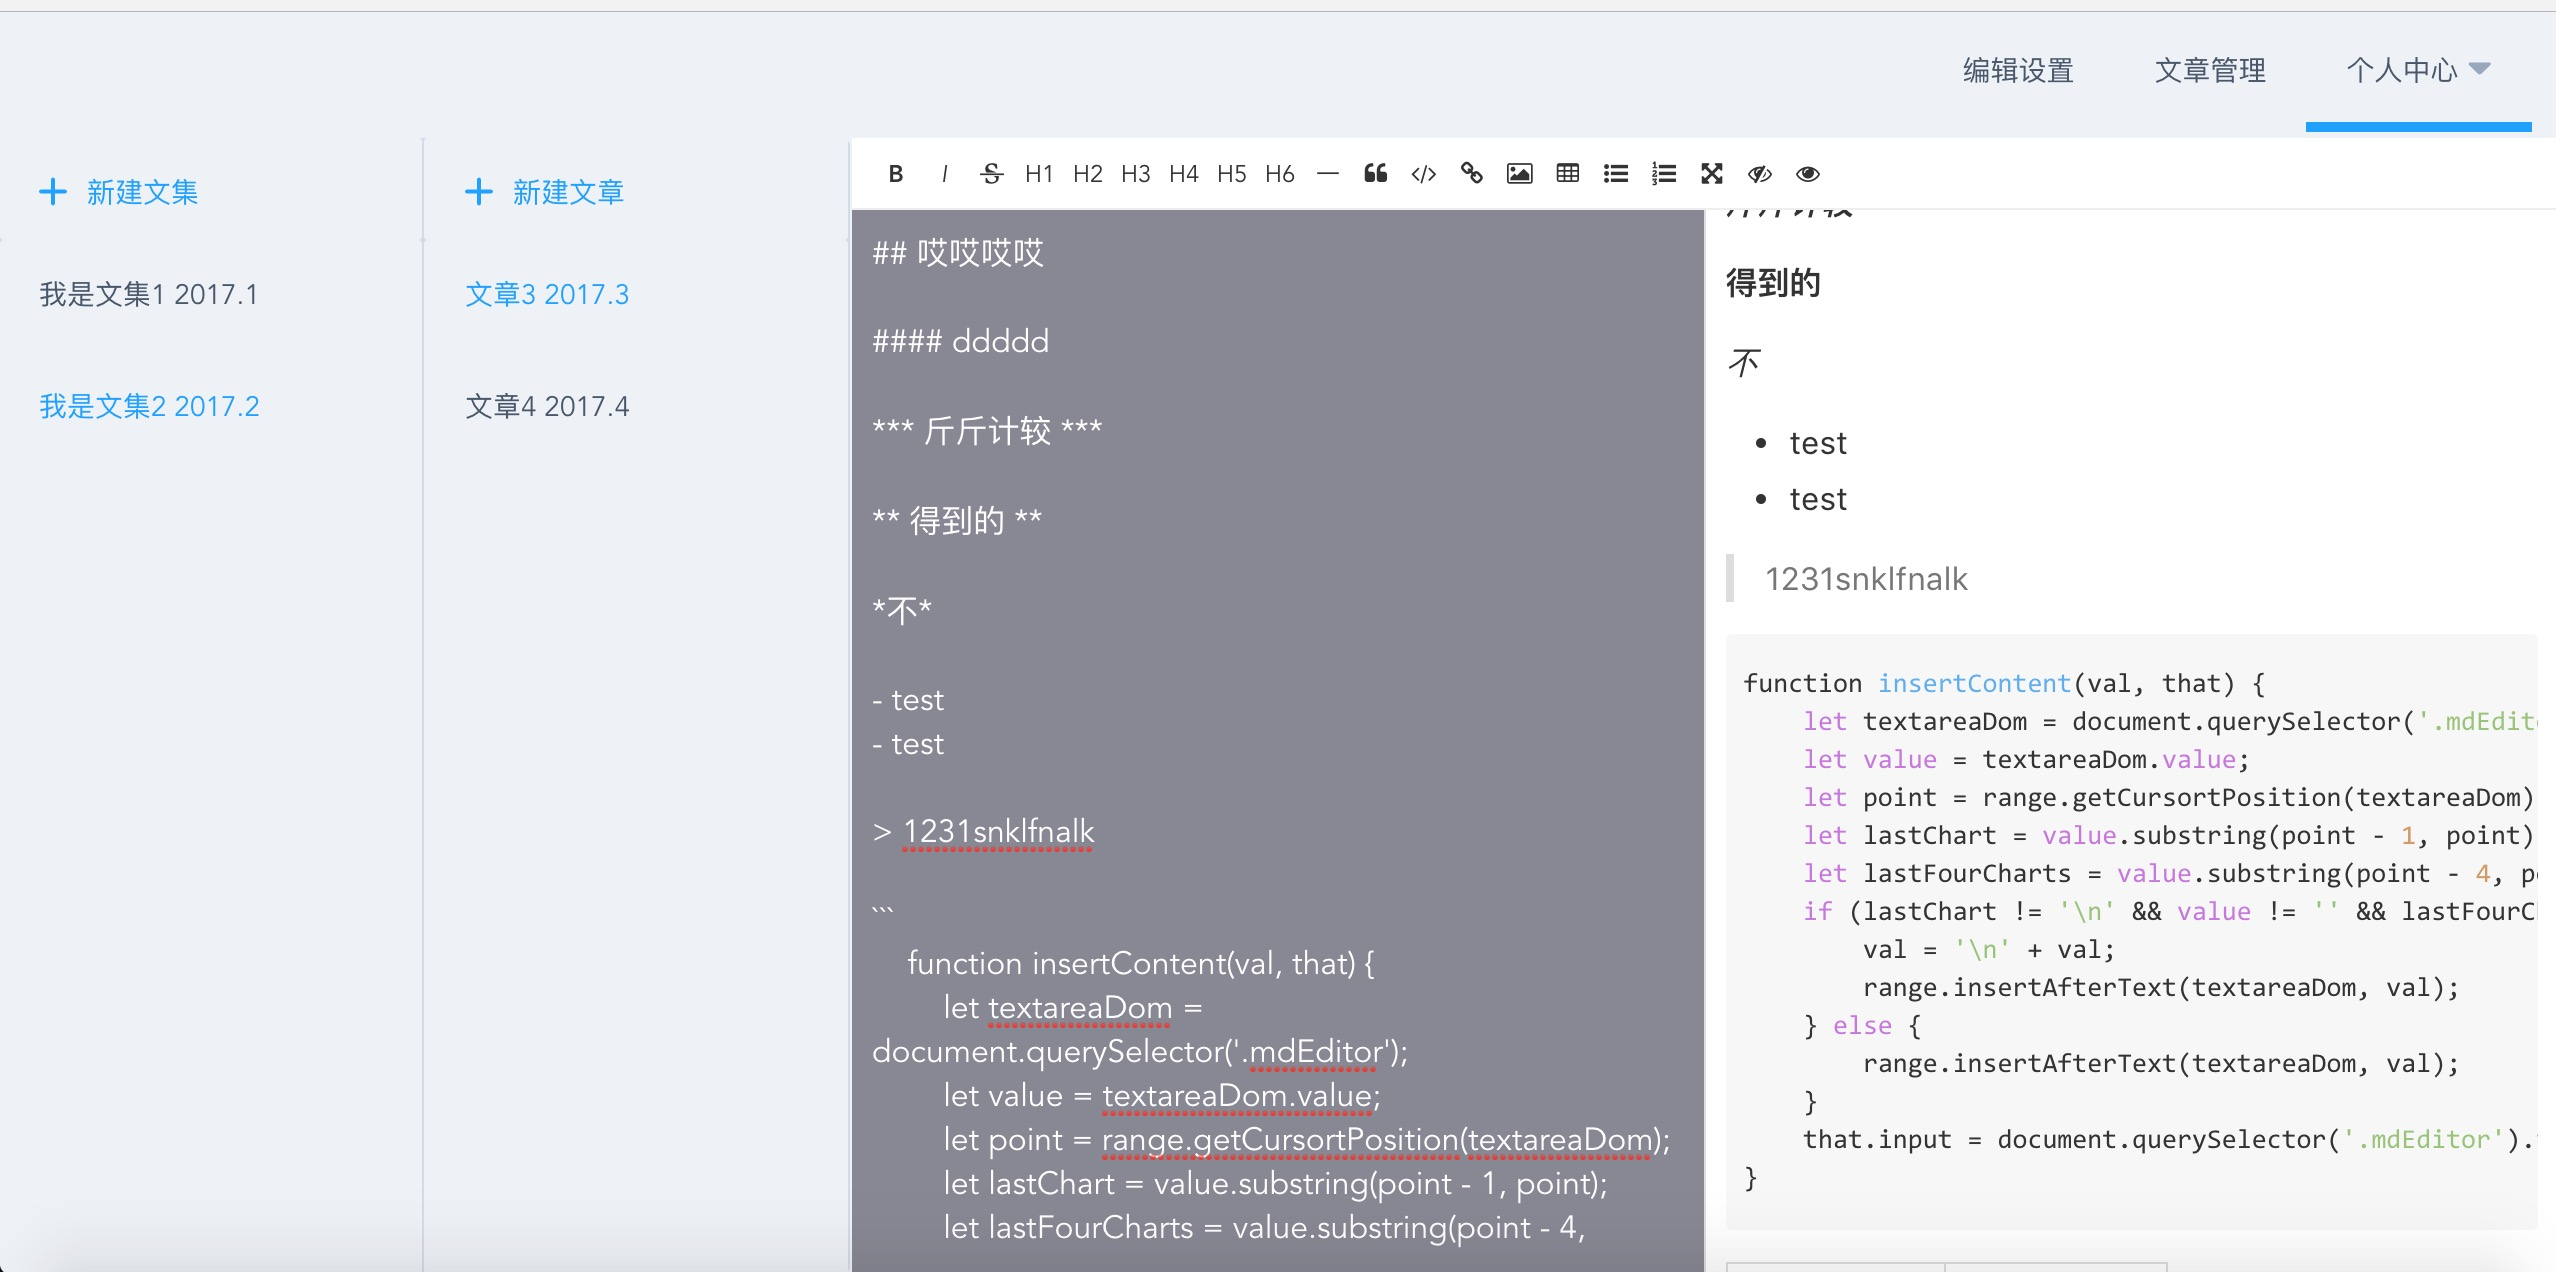
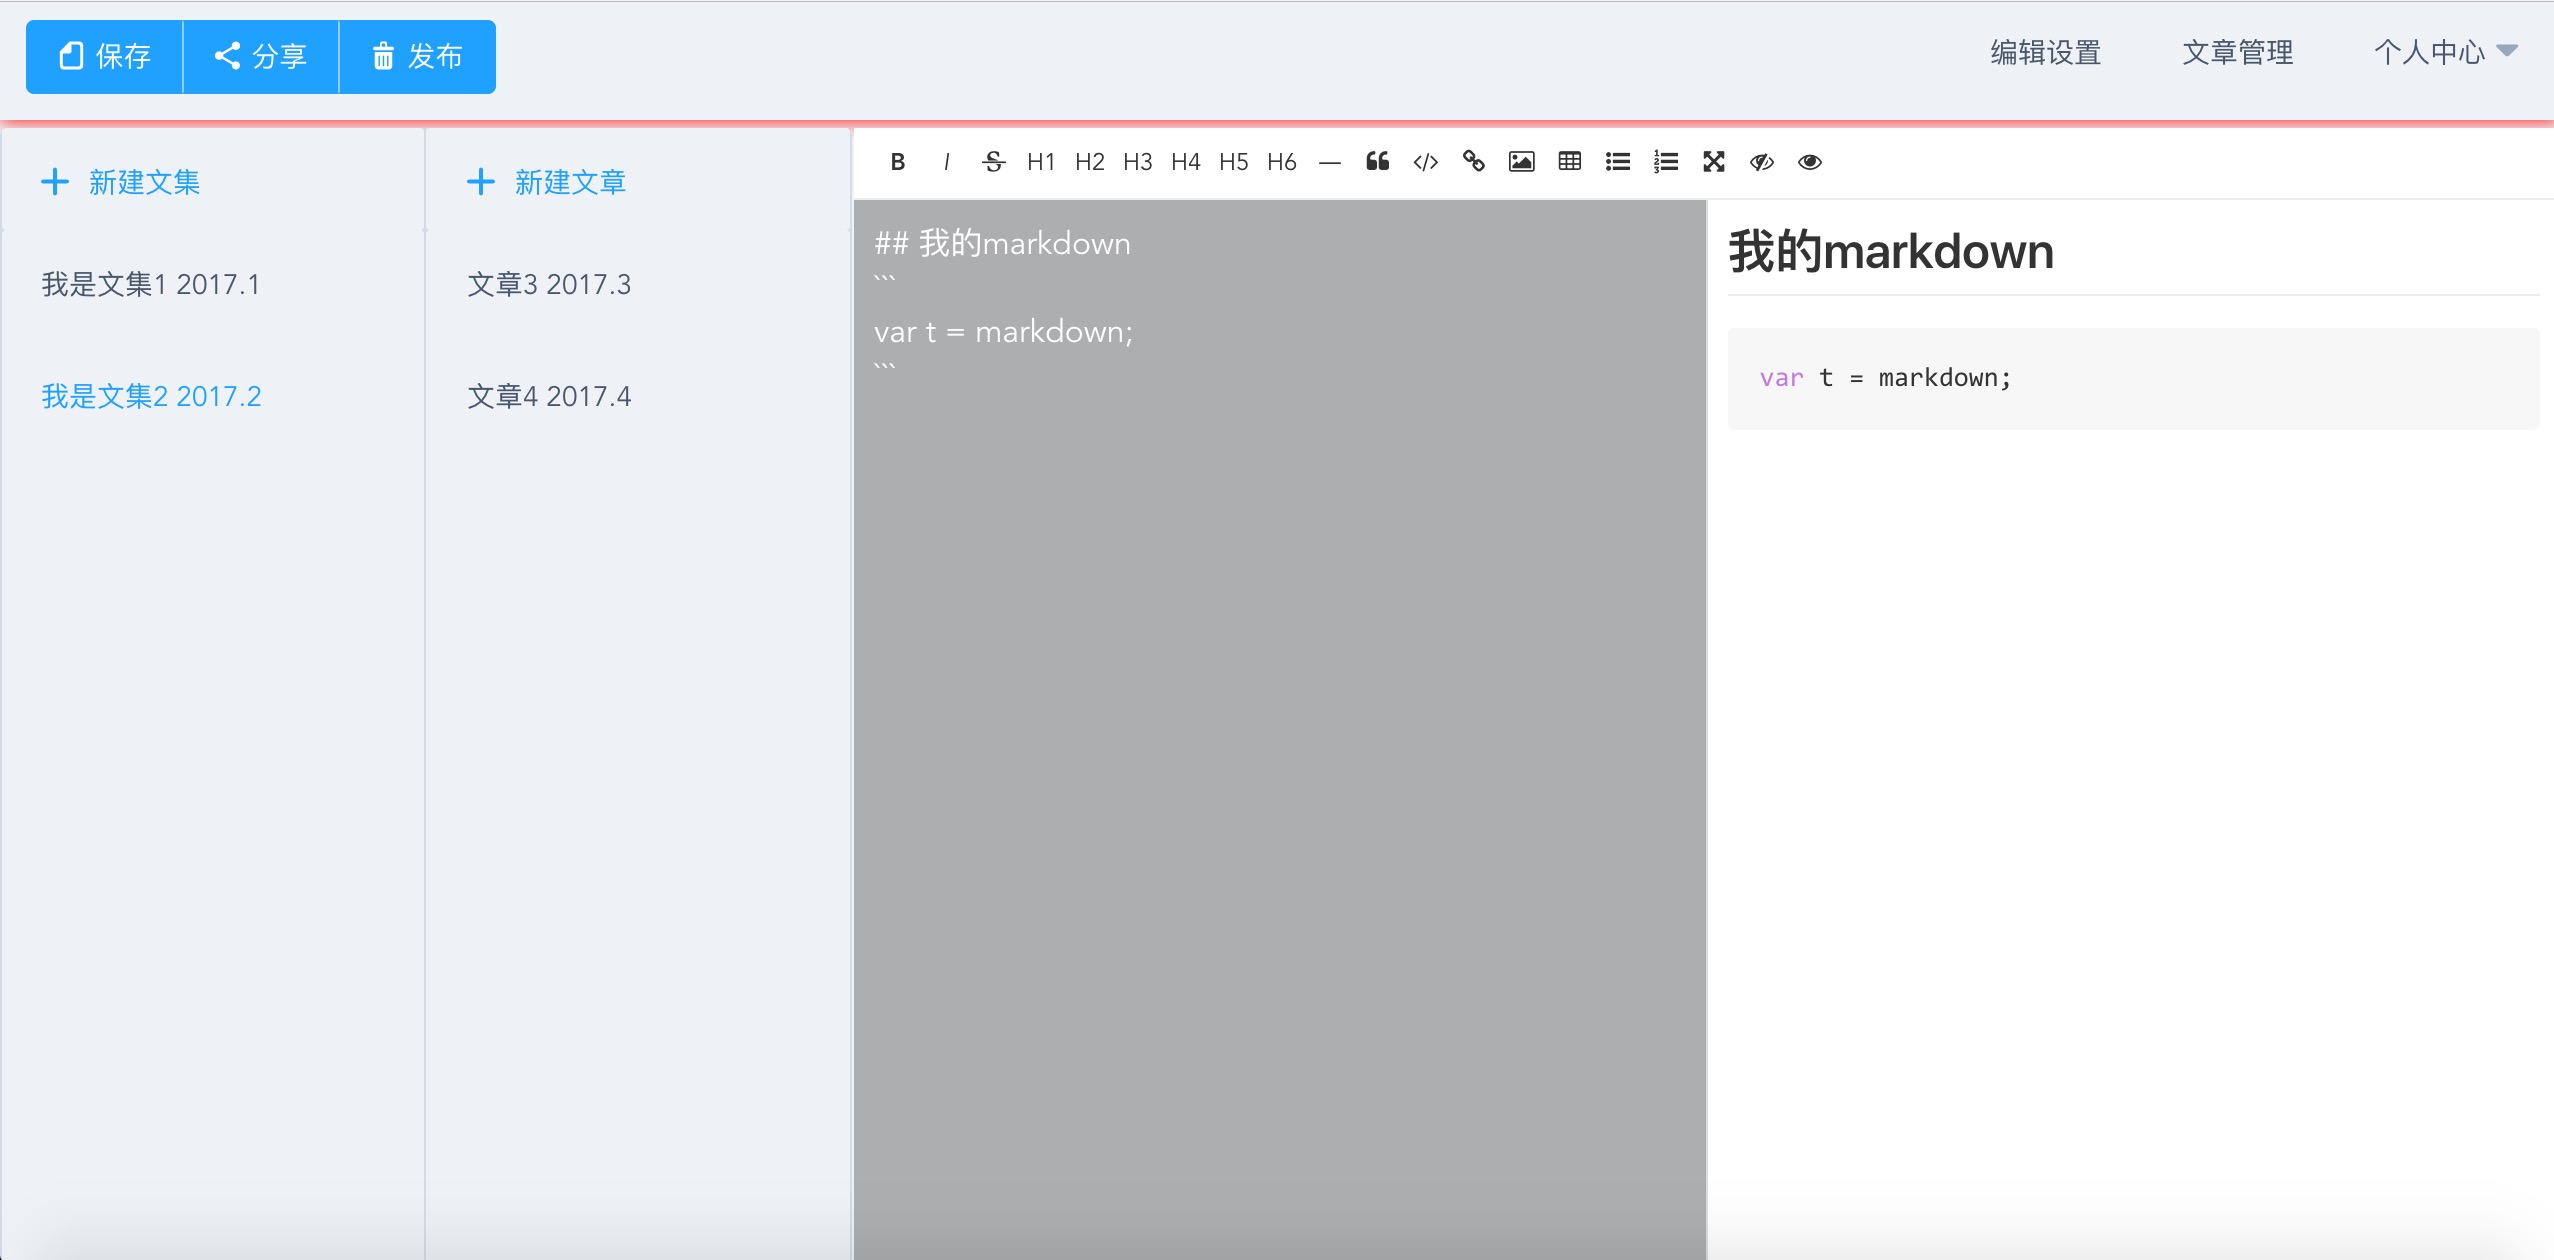
更新界面

diff --git a/src/components/header.vue b/src/components/header.vue
@@ -1,6 +1,14 @@
 <template>
     <div class="main-header">
-      <el-menu  class="warp-header" mode="horizontal">
+
+      <el-menu  class="setting-menu" mode="horizontal">
+
+        <el-button-group class="operate-group">
+          <el-button type="primary" icon="document">保存</el-button>
+          <el-button type="primary" icon="share">分享</el-button>
+          <el-button type="primary" icon="delete">发布</el-button>
+        </el-button-group>
+
         <el-submenu index="1">
           <template slot="title">个人中心</template>
           <el-menu-item index="1-1">媒体中心</el-menu-item>
@@ -11,6 +19,7 @@
         <el-menu-item index="3">编辑设置</el-menu-item>
 
       </el-menu>
+
     </div>
 </template>
 <script>
@@ -24,10 +33,13 @@ export default{
   }
 }
 </script>
-
 <style lang="scss">
   .main-header{
-    .warp-header{
+    box-shadow:0px 0px 15px #f00;
+    .setting-menu{
+      .operate-group{
+        margin: 1%;
+      }
       .el-menu-item, .el-submenu{
         float: right;
       }

diff --git a/src/pages/home.vue b/src/pages/home.vue
@@ -45,9 +45,10 @@ export default{
   .home{
     height:100%;
     min-height: 100%;
+
     .home-header{
       height: 10%;
-      padding-right: 1%;
+      margin-bottom: 0.3%;
     }
     .main-div{
       height: 90%;
@@ -65,8 +66,6 @@ export default{
       }
     }
   }
-
-
   .bg-purple-dark {
     background: #99a9bf;
   }

diff --git a/src/components/markdown.vue b/src/components/markdown.vue
@@ -357,7 +357,7 @@
         width: 100%;
         box-sizing: border-box;
         border-right: 1px solid #ddd;
-        background: #888893;
+        background: #acaeb0;
         color: #fff;
         padding: 10px;
         .mdEditor {
